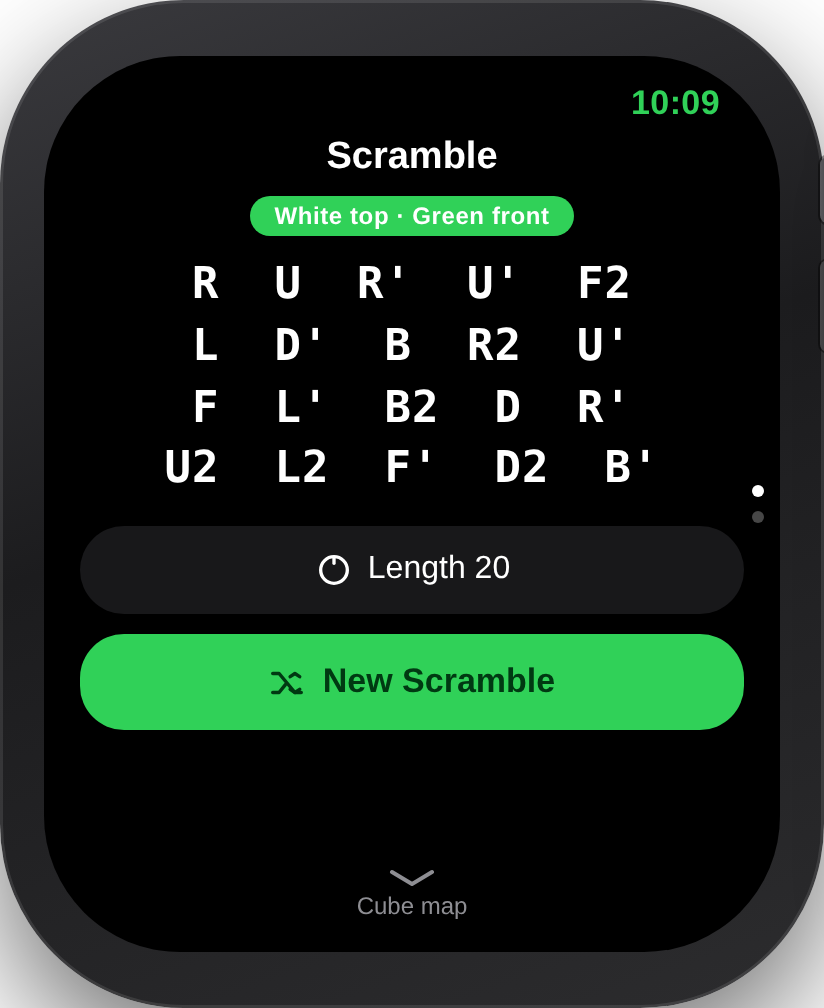
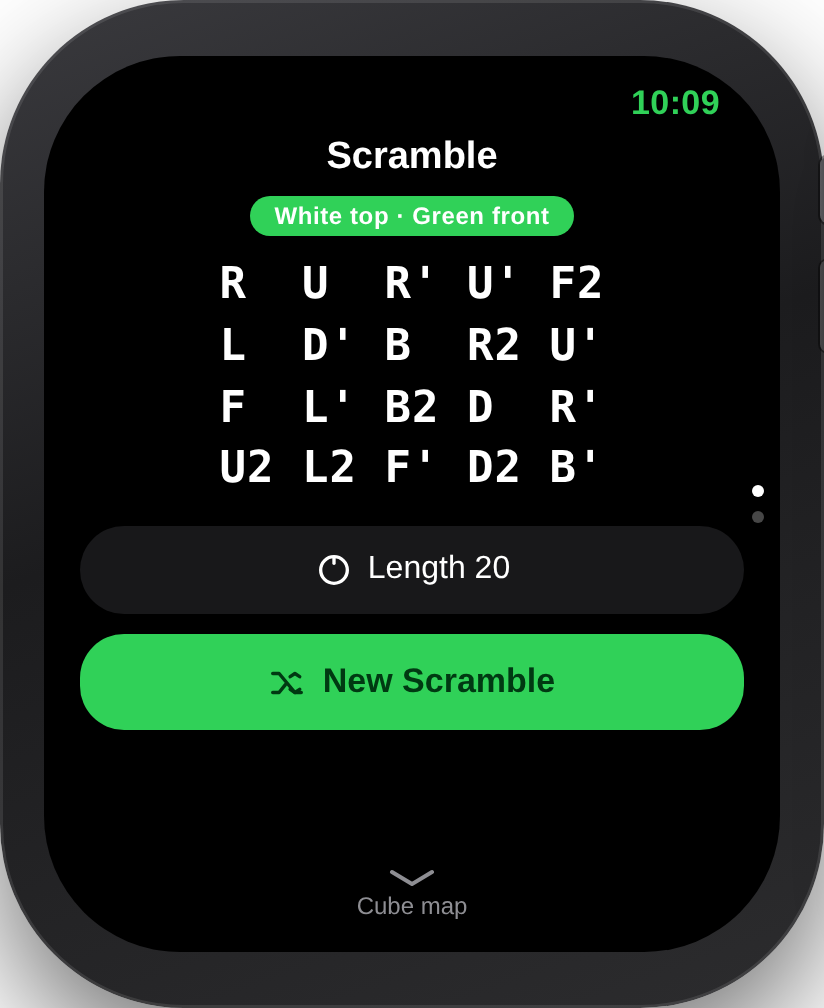
Fix length-pill tap-toggle and stabilize 5-moves-per-row
Two on-watch issues:

- Tapping the length pill never toggled crown capture: the pill had both
  Button (already focusable) and an extra .focusable() modifier, so the
  tap landed on the outer focusable target — which set lengthFocused to
  true via the .focused() binding — and then the Button action toggled
  it back to false in the same runloop tick. Dropping the redundant
  .focusable() lets the Button's native focus handling drive the toggle.

- Rows of 5 moves drifted in width because moves can be 1 or 2 chars
  ("U" vs "U'"), so a row of all-2-char moves was ~30% wider than a row
  of all-1-char moves and wrapped on smaller watches. Pad every move to
  a 2-char column and use a single-space joiner so each row is a fixed
  14 chars wide and fits at 19pt monospace on every watch size.

Mockup updated to match.

https://claude.ai/code/session_01UzvteeouedwRnp5Jnq4bwE

diff --git a/RubiksScramble/RubiksScramble Watch App/ContentView.swift b/RubiksScramble/RubiksScramble Watch App/ContentView.swift
@@ -20,10 +20,13 @@ private struct ScrambleScreen: View {
     @FocusState private var lengthFocused: Bool
 
     /// Group moves into fixed-width rows so the wrap doesn't shift based on
-    /// which moves happen to be 1 vs 2 chars wide.
+    /// which moves happen to be 1 vs 2 chars wide. Each move is padded to a
+    /// uniform 2-char column so a row of all-2-char moves isn't wider than a
+    /// row of all-1-char moves, which is what made 5/row inconsistent before.
     private var scrambleRows: String {
-        stride(from: 0, to: moves.count, by: 5)
-            .map { moves[$0..<min($0 + 5, moves.count)].joined(separator: "  ") }
+        let padded = moves.map { $0.padding(toLength: 2, withPad: " ", startingAt: 0) }
+        return stride(from: 0, to: padded.count, by: 5)
+            .map { padded[$0..<min($0 + 5, padded.count)].joined(separator: " ") }
             .joined(separator: "\n")
     }
 
@@ -64,7 +67,6 @@ private struct ScrambleScreen: View {
                     }
                     .buttonStyle(.bordered)
                     .tint(lengthFocused ? Color.accentColor : Color.gray)
-                    .focusable()
                     .focused($lengthFocused)
                     .digitalCrownRotation(
                         $crownLength,

diff --git a/mockup/index.html b/mockup/index.html
@@ -379,11 +379,14 @@ const SCRAMBLE = "R U R' U' F2 L D' B R2 U' F L' B2 D R' U2 L2 F' D2 B'".split("
 /* render scramble text (kept on its own lines of ~5 moves for readability) */
 (function renderScramble(){
   const lines = [];
-  for (let i=0;i<SCRAMBLE.length;i+=5) lines.push(SCRAMBLE.slice(i,i+5).join("  "));
+  // Pad 1-char moves to 2 chars so each move column has the same width;
+  // otherwise rows of mostly-2-char moves are wider and wrap on small watches.
+  const padded = SCRAMBLE.map(m => m.length < 2 ? m + " " : m);
+  for (let i=0;i<padded.length;i+=5) lines.push(padded.slice(i,i+5).join(" "));
   const text = lines.join("\n");
   document.querySelectorAll(".scramble").forEach(el => {
     el.textContent = text;
-    el.style.whiteSpace = "pre-line";
+    el.style.whiteSpace = "pre";
   });
 })();
 
